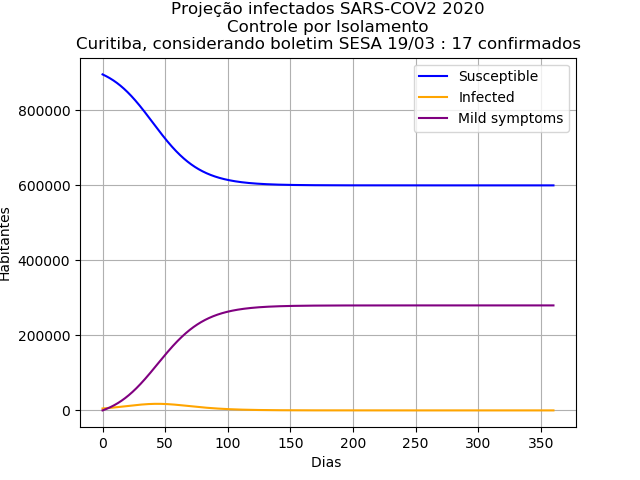
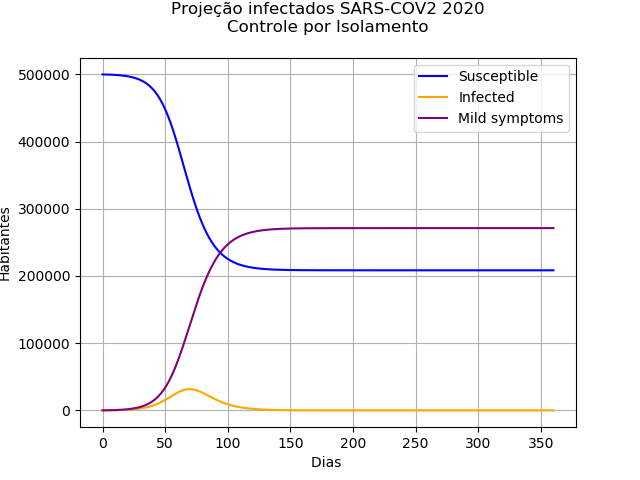
Ajustando legenda da figura, main e a figura.

diff --git a/epidemio_models/__init__.py b/epidemio_models/__init__.py
@@ -118,8 +118,7 @@ class Doenca:
         :return:
         """
 
-        plt.title("Projeção infectados SARS-COV2 2020\n"
-                  "Controle por Isolamento\n")
+        plt.title("Projeção infectados SARS-COV2 2020")
 
         plt.xlabel('Dias \n\n'
                    ' Contato social médio: {} pessoas por dia \n'
@@ -128,9 +127,9 @@ class Doenca:
 
         plt.ylabel('Habitantes')
 
-        plt.plot(self.time, self.S, label='Susceptible', color='blue')
-        plt.plot(self.time, self.I, label='Infected', color='orange')
-        plt.plot(self.time, self.C, label='Mild symptoms', color='purple')
+        plt.plot(self.time, self.S, label='Suscetíveis', color='blue')
+        plt.plot(self.time, self.I, label='Infectados', color='orange')
+        plt.plot(self.time, self.C, label='Sintomas leves', color='purple')
         # plt.plot(self.time, self.D, label='Precisando de Leitos', color='black')
         #plt.plot(self.time, self.leitos, label='beds (5.623)', color='red')
 

diff --git a/main/main.py b/main/main.py
@@ -3,14 +3,14 @@ from epidemio_models import Doenca
 c = int(input('Contado médio entre os indivíduos: '))
 p = float(input('Probabilidade de contaminção: '))
 beta = c * p
-tempo_de_contaminacao = int(input('Tempo de contaminação: '))
+tempo_de_contaminacao = int(input('Tempo em que um infectado pode infectar outros: '))
 gama = 1 / tempo_de_contaminacao
 
 mortalidade = float(input('Mortalidade da doença: '))
 
 populacao = int(input('População: '))
 infectado = int(input('Infectados: '))
-tempo_simulacao = int(input('Tempo em dias decorrido desde o primeiro caso: '))
+tempo_simulacao = int(input('Dias que serão simulados: '))
 
 corona = Doenca(populacao=populacao, beta=beta, gama=gama,
                 tDeath=mortalidade, infectado=infectado, simulationTime=tempo_simulacao, leitos=5623)
